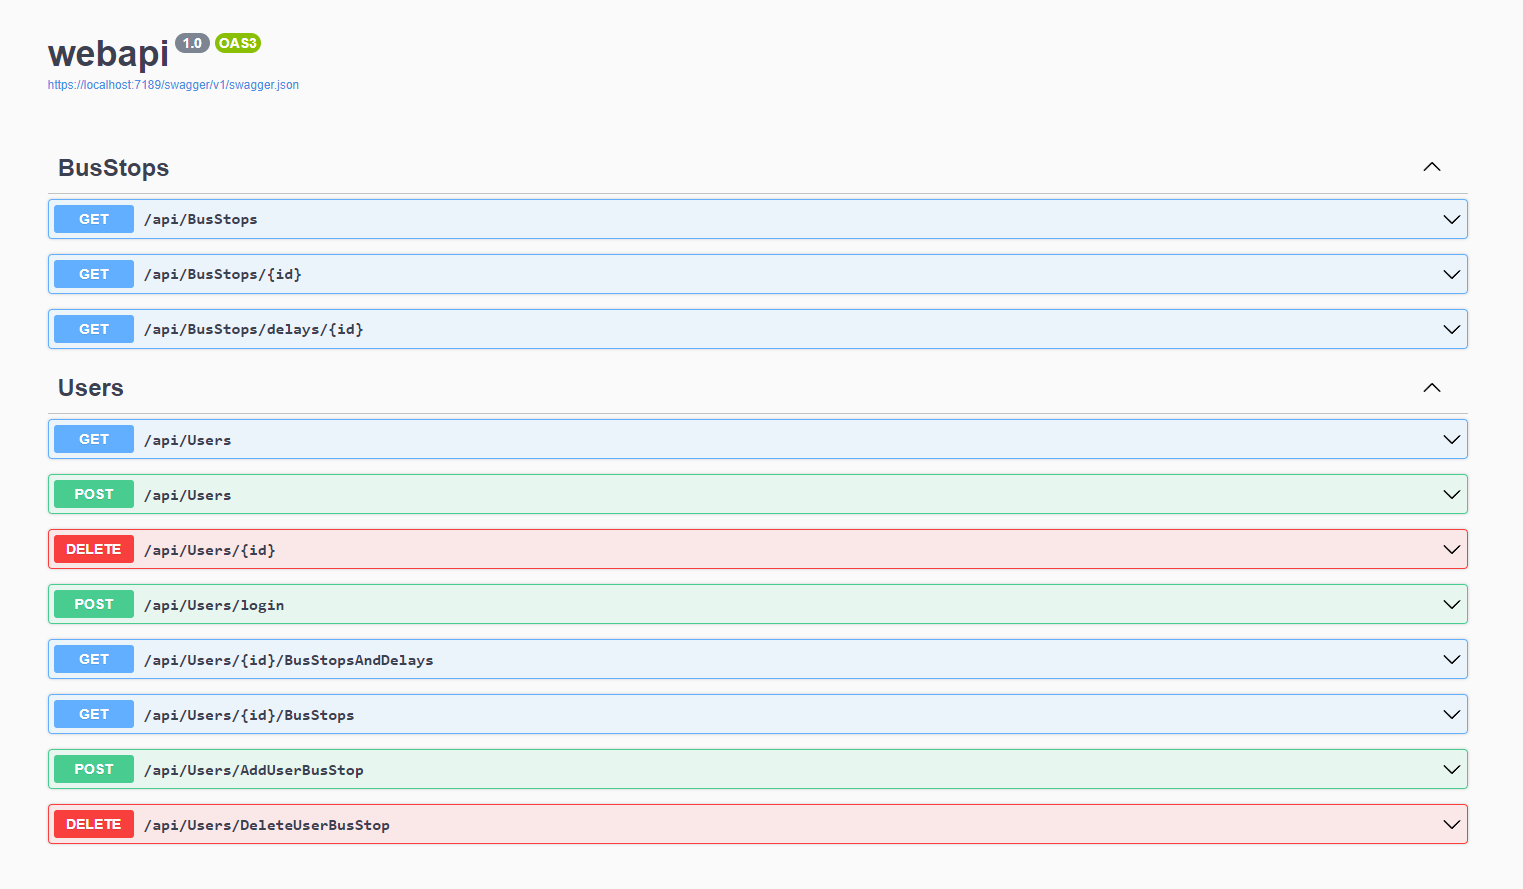
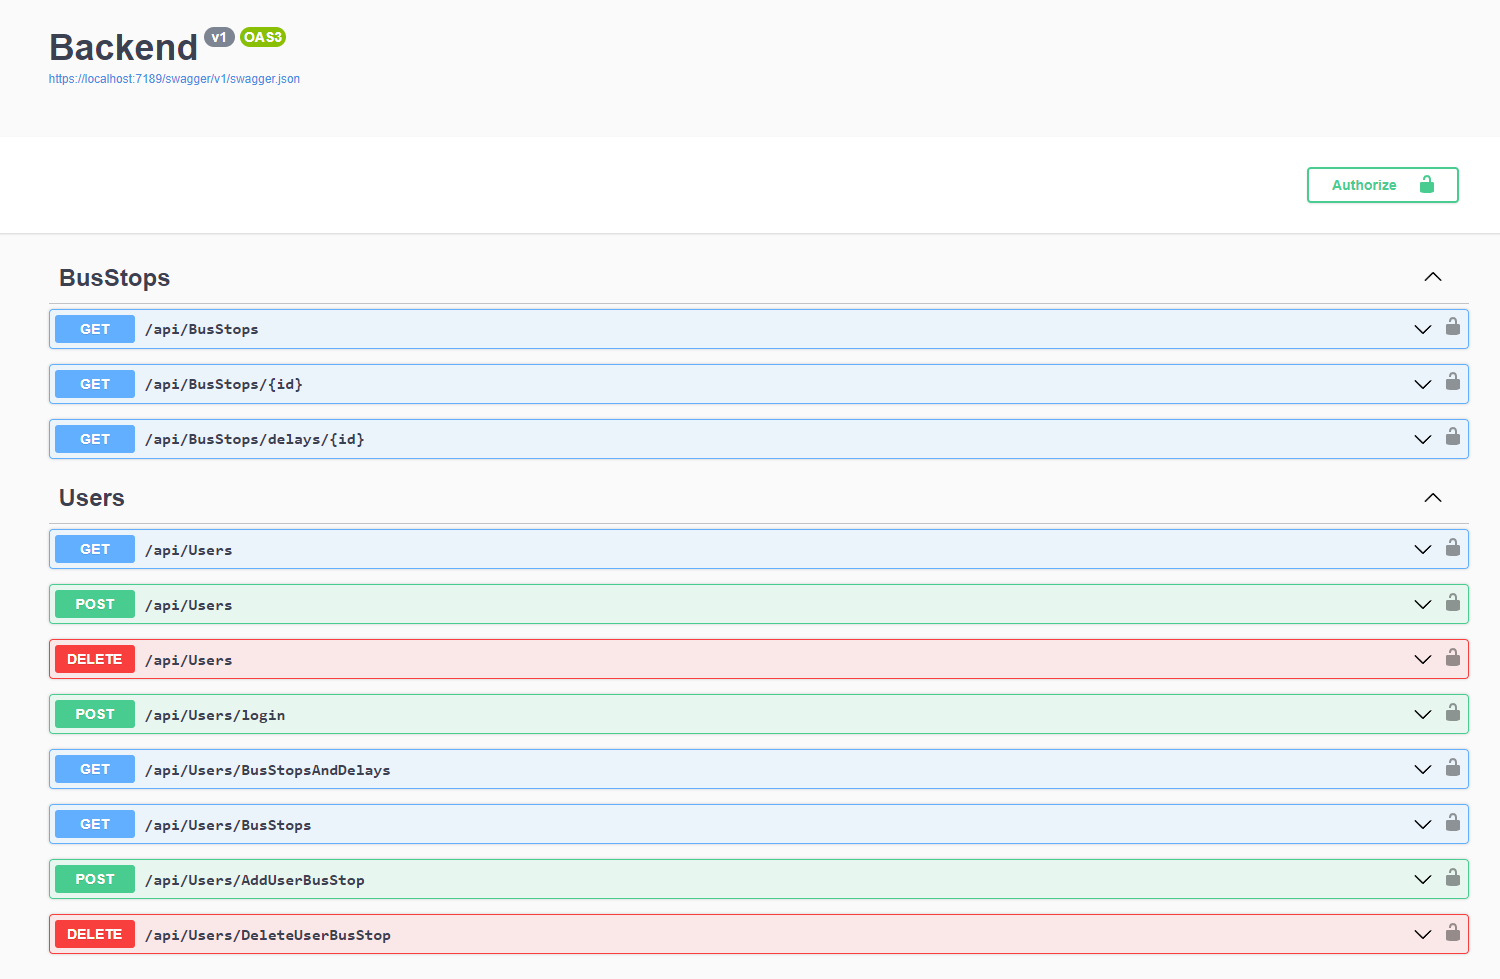
JWT Bearer authorization added to the backend.

Changed region(s): [[0.0307, 0.1822, 0.9813, 0.9719], [0.0307, 0.0304, 0.2147, 0.1215], [0.8587, 0.1519, 0.9813, 0.2126]]

diff --git a/webapi/Controllers/UsersController.cs b/webapi/Controllers/UsersController.cs
@@ -1,30 +1,37 @@
 using System;
 using System.Collections.Generic;
 using System.Configuration;
+using System.IdentityModel.Tokens.Jwt;
 using System.Linq;
+using System.Security.Claims;
 using System.Security.Policy;
 using System.Text;
 using System.Threading.Tasks;
+using Microsoft.AspNetCore.Authorization;
 using Microsoft.AspNetCore.Http;
 using Microsoft.AspNetCore.Mvc;
 using Microsoft.EntityFrameworkCore;
 using Microsoft.IdentityModel.Tokens;
 using Newtonsoft.Json;
+using NuGet.Protocol.Plugins;
 using webapi.Data;
 using webapi.Models;
 
 namespace webapi.Controllers
 {
+    [Authorize]
     [Route("api/[controller]")]
     [ApiController]
     public class UsersController : ControllerBase
     {
         private readonly ZtmDbContext _context;
+        private readonly IConfiguration _configuration;
         private readonly HttpClient _client = new();
 
-        public UsersController(ZtmDbContext context)
+        public UsersController(ZtmDbContext context, IConfiguration configuration)
         {
             _context = context;
+            _configuration = configuration;
 
             // default user
             if (_context.Users.IsNullOrEmpty())
@@ -36,6 +43,7 @@ namespace webapi.Controllers
         }
 
         // GET: api/Users
+        [AllowAnonymous]
         [HttpGet]
         public async Task<ActionResult<IEnumerable<string>>> GetUsers()
         {
@@ -49,13 +57,17 @@ namespace webapi.Controllers
 
         // POST: api/Users
         // To protect from overposting attacks, see https://go.microsoft.com/fwlink/?linkid=2123754
+        [AllowAnonymous]
         [HttpPost]
         public async Task<ActionResult<User>> PostUser(User user)
         {
             if (_context == null || _context.Users.IsNullOrEmpty())
             {
-              return Problem("Entity set 'ZtmDbContext.Users' is null or empty.");
+                return Problem("Entity set 'ZtmDbContext.Users' is null or empty.");
             }
+
+            var result = await _context.Users.FirstAsync(e => e.Login == user.Login);
+            if (result != null) { return NotFound(); }
 
             _context.Users.Add(new User() { Login = user.Login, Password = user.Password, BusStops = user.BusStops });
             await _context.SaveChangesAsync();
@@ -63,16 +75,19 @@ namespace webapi.Controllers
             return CreatedAtAction("PostLogin", user);
         }
 
-        // DELETE: api/Users/5
-        [HttpDelete("{id}")]
-        public async Task<IActionResult> DeleteUser(int id)
+        // DELETE: api/Users
+        [HttpDelete]
+        public async Task<IActionResult> DeleteUser()
         {
             if (_context == null || _context.Users.IsNullOrEmpty())
             {
                 return Problem("Entity set 'ZtmDbContext.Users' is null or empty.");
             }
 
-            var user = await _context.Users.FindAsync(id);
+            var login = User.FindFirstValue(ClaimTypes.NameIdentifier);
+
+            var user = await _context.Users.FirstAsync(e => e.Login == login);
+
             if (user == null) { return NotFound(); }
 
             _context.Users.Remove(user);
@@ -83,9 +98,10 @@ namespace webapi.Controllers
 
         // POST: api/Users/login
         // To protect from overposting attacks, see https://go.microsoft.com/fwlink/?linkid=2123754
+        [AllowAnonymous]
         [Route("login")]
         [HttpPost]
-        public async Task<ActionResult<User>> PostLogin(User login)
+        public async Task<ActionResult<string>> PostLogin(User login)
         {
             if (_context == null || _context.Users.IsNullOrEmpty())
             {
@@ -95,23 +111,39 @@ namespace webapi.Controllers
             var user = await _context.Users.FirstAsync(e => e.Login == login.Login && e.Password == login.Password);
             if (user != null)
             {
-                return Ok(new { id = user.Id });
+                var securityKey = new
+                    SymmetricSecurityKey(Encoding.UTF8.GetBytes(_configuration["JwtSettings:Key"]!));
+                var credentials = new SigningCredentials(securityKey,
+                    SecurityAlgorithms.HmacSha256);
+                var claims = new List<Claim>
+                {
+                    new Claim("sub", login.Login!)
+                };
+                var token = new JwtSecurityToken(
+                    _configuration["JwtSettings:Issuer"],
+                    _configuration.GetSection("JwtSettings:Audience").Get<List<string>>()![1],
+                    claims,
+                    expires: DateTime.Now.AddMinutes(120),
+                    signingCredentials: credentials);
+                return new JwtSecurityTokenHandler().WriteToken(token);
             }
 
             return NotFound();
 
         }
 
-        // GET: api/Users/5/BusStopsAndDelays
-        [Route("{id}/BusStopsAndDelays")]
+        // GET: api/Users/BusStopsAndDelays
+        [Route("BusStopsAndDelays")]
         [HttpGet]
-        public async Task<ActionResult<string>> GetUserBusStopsAndDelays(int id)
+        public async Task<ActionResult<string>> GetUserBusStopsAndDelays()
         {
             if (_context == null || _context.Users.IsNullOrEmpty())
             {
                 return Problem("Entity set 'ZtmDbContext.Users' is null or empty.");
             }
-            var user = await _context.Users.FindAsync(id);
+            var login = User.FindFirstValue(ClaimTypes.NameIdentifier);
+
+            var user = await _context.Users.FirstAsync(e => e.Login == login);
 
             if (user == null) { return NotFound(); }
 
@@ -133,16 +165,18 @@ namespace webapi.Controllers
             return System.Text.Json.JsonSerializer.Serialize(stopsInfo);
         }
 
-        // GET: api/Users/5/BusStops
-        [Route("{id}/BusStops")]
+        // GET: api/Users/BusStops
+        [Route("BusStops")]
         [HttpGet]
-        public async Task<ActionResult<string>> GetUserBusStops(int id)
+        public async Task<ActionResult<string>> GetUserBusStops()
         {
             if (_context == null || _context.Users.IsNullOrEmpty())
             {
                 return Problem("Entity set 'ZtmDbContext.Users' is null or empty.");
             }
-            var user = await _context.Users.FindAsync(id);
+            var login = User.FindFirstValue(ClaimTypes.NameIdentifier);
+
+            var user = await _context.Users.FirstAsync(e => e.Login == login);
 
             if (user == null) { return NotFound(); }
 
@@ -154,22 +188,24 @@ namespace webapi.Controllers
         // POST: api/Users/AddUserBusStop
         [Route("AddUserBusStop")]
         [HttpPost]
-        public async Task<IActionResult> AddUserBusStop(int[] ids)
+        public async Task<IActionResult> AddUserBusStop(int id)
         {
             if (_context == null || _context.Users.IsNullOrEmpty())
             {
                 return Problem("Entity set 'ZtmDbContext.Users' is null or empty.");
             }
-            var user = await _context.Users.FindAsync(ids[0]);
+            var login = User.FindFirstValue(ClaimTypes.NameIdentifier);
+
+            var user = await _context.Users.FirstAsync(e => e.Login == login);
 
             if (user == null) { return NotFound(); }
 
             var stopsId = GetBusStops(user.BusStops);
 
-            if (!stopsId.Contains(ids[1]))
+            if (!stopsId.Contains(id))
             {
-                if(stopsId.Count > 0) { user.BusStops += " "; }
-                user.BusStops += $"{ids[1]}";
+                if (stopsId.Count > 0) { user.BusStops += " "; }
+                user.BusStops += $"{id}";
                 await _context.SaveChangesAsync();
                 return Ok();
             }
@@ -179,21 +215,23 @@ namespace webapi.Controllers
         // DELETE: api/Users/DeleteUserBusStop
         [Route("DeleteUserBusStop")]
         [HttpDelete]
-        public async Task<IActionResult> DeleteUserBusStop(int[] ids)
+        public async Task<IActionResult> DeleteUserBusStop(int id)
         {
             if (_context == null || _context.Users.IsNullOrEmpty())
             {
                 return Problem("Entity set 'ZtmDbContext.Users' is null or empty.");
             }
-            var user = await _context.Users.FindAsync(ids[0]);
+            var login = User.FindFirstValue(ClaimTypes.NameIdentifier);
+
+            var user = await _context.Users.FirstAsync(e => e.Login == login);
 
             if (user == null) { return NotFound(); }
 
             var stopsId = GetBusStops(user.BusStops);
 
-            if (stopsId.Contains(ids[1]))
+            if (stopsId.Contains(id))
             {
-                stopsId = stopsId.Where(s => s != ids[1]).ToList();
+                stopsId = stopsId.Where(s => s != id).ToList();
 
                 StringBuilder sb = new StringBuilder();
                 foreach (var stop in stopsId)
@@ -216,7 +254,7 @@ namespace webapi.Controllers
             var busStops = new List<int>();
             if (busStopsStr.IsNullOrEmpty()) { return busStops; }
 
-            if(busStopsStr!.Contains(' '))
+            if (busStopsStr!.Contains(' '))
             {
                 return busStopsStr.Split(' ').Select(int.Parse).ToList();
             }

diff --git a/webapi/Program.cs b/webapi/Program.cs
@@ -1,10 +1,17 @@
+using Microsoft.AspNetCore.Authentication.JwtBearer;
 using Microsoft.Extensions.Caching.Memory;
+using Microsoft.IdentityModel.Tokens;
+using Microsoft.OpenApi.Models;
 using Newtonsoft.Json;
+using System.Text;
 using webapi.Data;
 using webapi.Models;
 
 var builder = WebApplication.CreateBuilder(args);
+var configuration = builder.Configuration;
 // Add services to the container.
+
+builder.Services.AddSingleton<IConfiguration>(configuration);
 
 builder.Services.AddControllers();
 
@@ -14,7 +21,58 @@ builder.Services.AddMemoryCache();
 
 // Learn more about configuring Swagger/OpenAPI at https://aka.ms/aspnetcore/swashbuckle
 builder.Services.AddEndpointsApiExplorer();
-builder.Services.AddSwaggerGen();
+builder.Services.AddSwaggerGen((c =>
+{
+    c.SwaggerDoc("v1", new OpenApiInfo { Title = "Backend", Version = "v1" });
+    c.AddSecurityDefinition("Bearer", new OpenApiSecurityScheme
+    {
+        Description = @"JWT Authorization header using the Bearer scheme. 
+                        Enter 'Bearer' [space] and then your token in the text input below.
+                        Example: 'Bearer 12345abcdef'",
+        Name = "Authorization",
+        In = ParameterLocation.Header,
+        Type = SecuritySchemeType.ApiKey,
+        Scheme = "Bearer"
+    });
+
+    c.AddSecurityRequirement(new OpenApiSecurityRequirement()
+    {{
+        new OpenApiSecurityScheme
+        {
+            Reference = new OpenApiReference
+            {
+                Type = ReferenceType.SecurityScheme,
+                Id = "Bearer"
+            },
+            Scheme = "oauth2",
+            Name = "Bearer",
+            In = ParameterLocation.Header,
+        },
+
+        new List<string>()
+    }});
+}));
+
+builder.Services.AddAuthentication(x =>
+{
+    x.DefaultAuthenticateScheme = JwtBearerDefaults.AuthenticationScheme;
+    x.DefaultChallengeScheme = JwtBearerDefaults.AuthenticationScheme;
+    x.DefaultScheme = JwtBearerDefaults.AuthenticationScheme;
+}).AddJwtBearer(options =>
+{
+    options.TokenValidationParameters = new TokenValidationParameters
+    {
+        ValidAudiences = configuration.GetSection("JwtSettings:Audience").Get<List<string>>(),
+        ValidIssuer = configuration["JwtSettings:Issuer"],
+        // If it wasn't a task for laboratories use proper key storage
+        IssuerSigningKey = new SymmetricSecurityKey
+            (Encoding.UTF8.GetBytes(configuration["JwtSettings:Key"]!)),
+        ValidateAudience = true,
+        ValidateIssuer = true,
+        ValidateLifetime = true,
+        ValidateIssuerSigningKey = true
+    };
+});
 
 var app = builder.Build();
 
@@ -29,6 +87,7 @@ if (app.Environment.IsDevelopment())
 
 app.UseHttpsRedirection();
 
+app.UseAuthentication();
 app.UseAuthorization();
 
 app.MapControllers();

diff --git a/README.md b/README.md
@@ -9,9 +9,9 @@ The solution contains an ASP.NET Api backend and Vue.js frontend.
 - User registration/login/deletion,
 - List of favourite stops of the user,
 - List of favourite stops of the user with their delays,
-- Adding and deleting favourite stops.
+- Adding and deleting favourite stops,
+- JWT Bearer authorization.
 
-TODO: JWT Bearer authorization
 ![BackendPreview](./Backend.png)
 
 # Frontend offers:

diff --git a/vueapp/README.md b/vueapp/README.md
@@ -1,6 +1,6 @@
 # vueapp
 
-This template should help get you started developing with Vue 3 in Vite.
+Frontend based on the default template available in Visual Studio.
 
 ## Recommended IDE Setup
 
